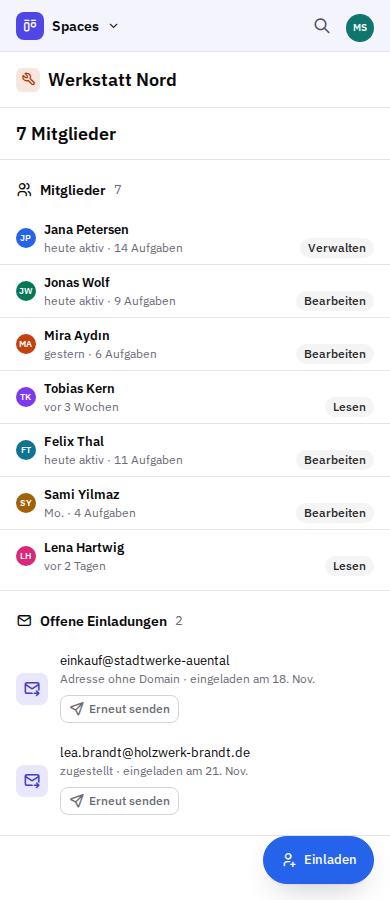
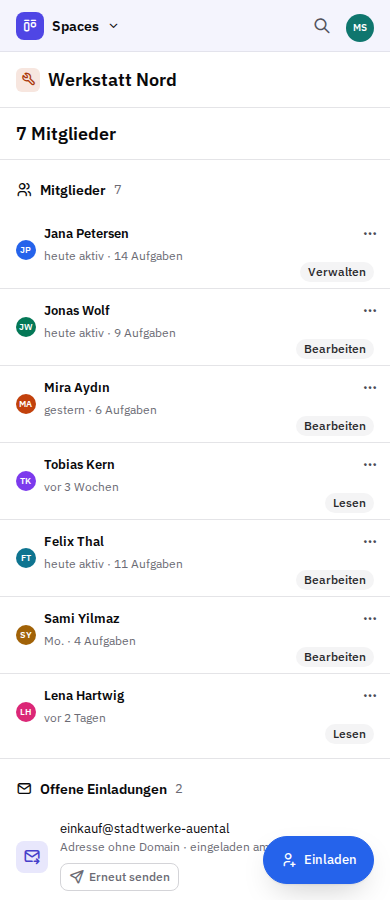
fix(ui): a table's phone rows keep their deeds, and the tests follow tables that share free room

diff --git a/packages/ui/src/v2/head-media.browser.test.ts b/packages/ui/src/v2/head-media.browser.test.ts
@@ -232,7 +232,11 @@ test("in rows of two lines a file keeps its thumbnail beside its box", async () 
         .evaluate((element) => {
           const box = element.querySelector(".k2-mark")!.getBoundingClientRect();
           const mark = element.querySelector(".k2-mk")!.getBoundingClientRect();
-          return { side: mark.left > box.right, mark: `${mark.width}x${mark.height}`, middle: Math.abs(box.top + box.height / 2 - (mark.top + mark.height / 2)) < 1 };
+          return {
+            side: mark.left > box.right,
+            mark: `${mark.width}x${mark.height}`,
+            middle: Math.abs(box.top + box.height / 2 - (mark.top + mark.height / 2)) < 1,
+          };
         });
       expect(lead).toEqual({ side: true, mark: "32x32", middle: true });
     },
@@ -256,7 +260,8 @@ test("a setting stands with its value beside its name, and an unsaved change say
     const setting = page.locator("[data-k2-part='Setting']").first();
     const found = await setting.evaluate((element) => {
       const label = element.querySelector(".k2-field-label")!.getBoundingClientRect();
-      const control = element.querySelector(".k2-input")!.getBoundingClientRect();
+      // the control's place: a field, or a field with its unit beside it
+      const control = element.querySelector(":scope > :not(.k2-field-label, .k2-field-message, .k2-field-was)")!.getBoundingClientRect();
       const was = element.querySelector(".k2-field-was");
       return {
         beside: control.left > label.right,
@@ -268,7 +273,7 @@ test("a setting stands with its value beside its name, and an unsaved change say
     expect(found).toEqual({ beside: true, width: 300, was: "geändert · vorher 12 Std.", under: true });
     // the controls of all settings stand in one line down the page
     const lefts = await page
-      .locator("[data-k2-part='Setting'] > :is(.k2-input, .k2-check)")
+      .locator("[data-k2-part='Setting'] > :is(.k2-input, .k2-check, .k2-inline)")
       .evaluateAll((elements) => [...new Set(elements.map((element) => Math.round(element.getBoundingClientRect().left)))]);
     expect(lefts.length).toBe(1);
   });

diff --git a/packages/ui/skills/k2b-ui/recipes/states.tsx b/packages/ui/skills/k2b-ui/recipes/states.tsx
@@ -254,7 +254,7 @@ export default function IncomingGoods(props: Props) {
               marks: row.state === "ok" ? undefined : <Chip status={row.state}>{stateLabel[row.state]}</Chip>,
             })}
             columns={[
-              { title: "Lieferant", width: { min: 150, default: 165 }, mark: (row) => goods[row.goods], cell: (row) => row.supplier },
+              { title: "Lieferant", width: { min: 145, default: 155 }, mark: (row) => goods[row.goods], cell: (row) => row.supplier },
               { title: "Tor", width: { min: 56, default: 64 }, cell: (row) => row.gate },
               { title: "Menge", width: { min: 80, default: 90 }, drop: true, cell: (row) => row.amount },
               { title: "Wert", width: { min: 90, default: 100 }, align: "end", cell: (row) => row.value },
@@ -267,7 +267,7 @@ export default function IncomingGoods(props: Props) {
               },
               {
                 title: "Zustand",
-                width: { min: 100, default: 105 },
+                width: { min: 110, default: 120 },
                 cell: (row) => <Chip status={row.state}>{stateLabel[row.state]}</Chip>,
               },
               { title: "Zeit", width: { min: 52, default: 56 }, align: "end", cell: (row) => row.time },

diff --git a/packages/ui/src/v2/primitives.browser.test.ts b/packages/ui/src/v2/primitives.browser.test.ts
@@ -429,7 +429,7 @@ describe("v2 primitives keep the numbers of the mockup", () => {
     );
 
   test(
-    "a table column is exactly its default wide; cut text never widens it, rows without wrap are 40 px",
+    "a table column is at least its default wide and shares free room in proportion; cut text never widens it, rows without wrap are 40 px",
     async () => {
       const page = await open("table");
       try {
@@ -452,7 +452,11 @@ describe("v2 primitives keep the numbers of the mockup", () => {
           };
         });
         expect(table.chip).toEqual([true, true]);
-        expect(table.heads.slice(0, -1)).toEqual([260, 180, 300, 140]);
+        // the defaults 260, 180, 300, 140: each column at least that wide, the free room shared in their proportion
+        const defaults = [260, 180, 300, 140];
+        const shown = table.heads.slice(0, -1);
+        for (const [index, width] of shown.entries()) expect(width).toBeGreaterThanOrEqual(defaults[index]!);
+        for (const [index, width] of shown.entries()) expect(width / shown[0]!).toBeCloseTo(defaults[index]! / defaults[0]!, 1);
         expect(table.heads.at(-1)!).toBeGreaterThanOrEqual(120);
         expect(table.cut).toBe(true);
         expect(table.wrapLines).toBe(3);

diff --git a/packages/ui/src/v2/content.tsx b/packages/ui/src/v2/content.tsx
@@ -544,6 +544,8 @@ type TableBase<T> = {
     mark?: MarkProps;
     time?: JSX.Element;
     marks?: JSX.Element;
+    /** The row's deeds at its end, such as its "…" menu, as `Row end`: what a column of deeds offers on the desktop. */
+    end?: JSX.Element;
   };
   /**
    * While the rows load: the head stays and square placeholders hold the place of the rows, so nothing moves when they
@@ -1236,6 +1238,7 @@ export const Table = <T,>(props: TableProps<T>) => {
                             mark={form.mark}
                             time={form.time}
                             marks={form.marks}
+                            end={form.end}
                             strong
                             href={target?.href}
                             onNavigate={target?.onNavigate}

diff --git a/packages/ui/skills/k2b-ui/recipes/dialogs.tsx b/packages/ui/skills/k2b-ui/recipes/dialogs.tsx
@@ -162,6 +162,8 @@ export default function SpaceMembers() {
               avatar: { name: member.name, initials: member.initials, color: member.color },
               lines: [member.name, last[member.id] ?? ""],
               marks: <Chip>{member.role}</Chip>,
+              // the deeds stay on the phone, at the end of each row
+              end: <Menu label={`Aktionen für ${member.name}`} items={deeds(member)} />,
             })}
             columns={[
               {
